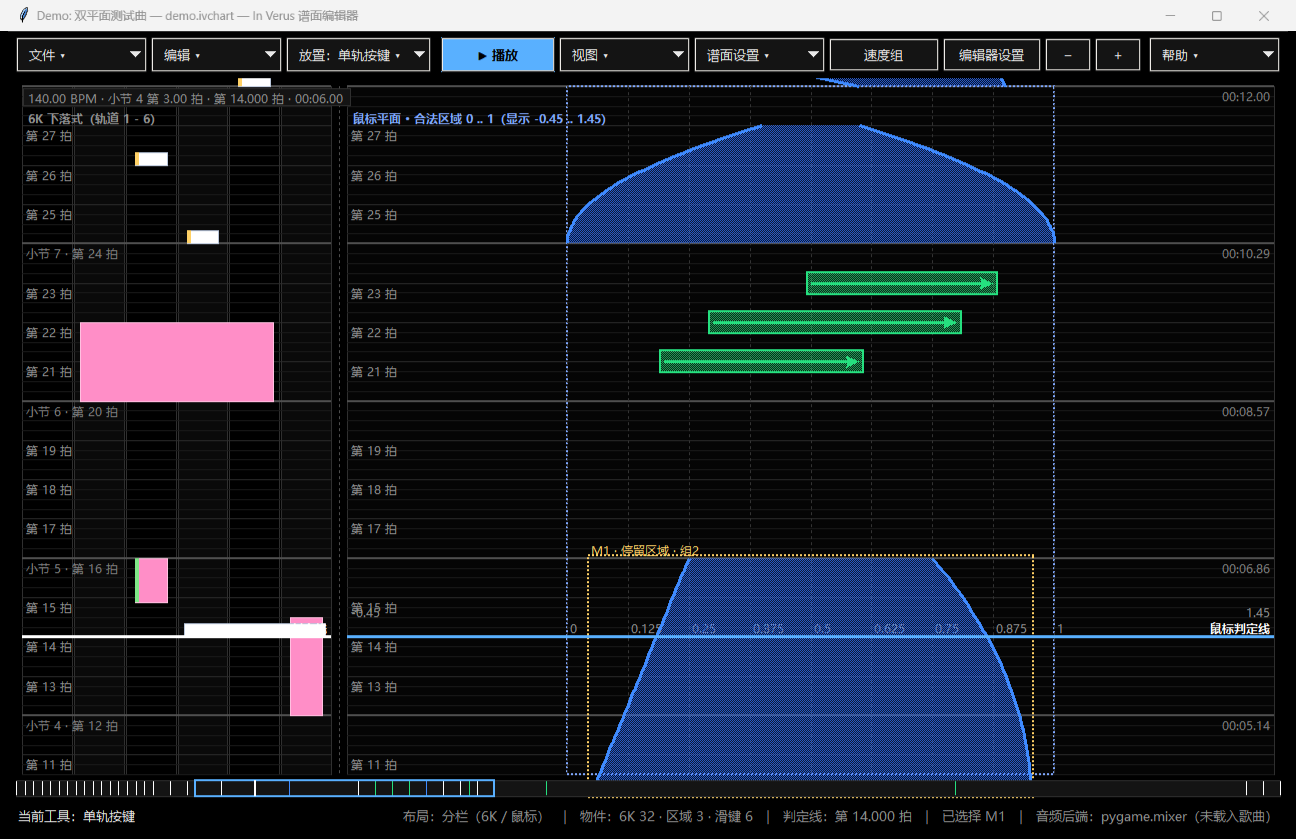
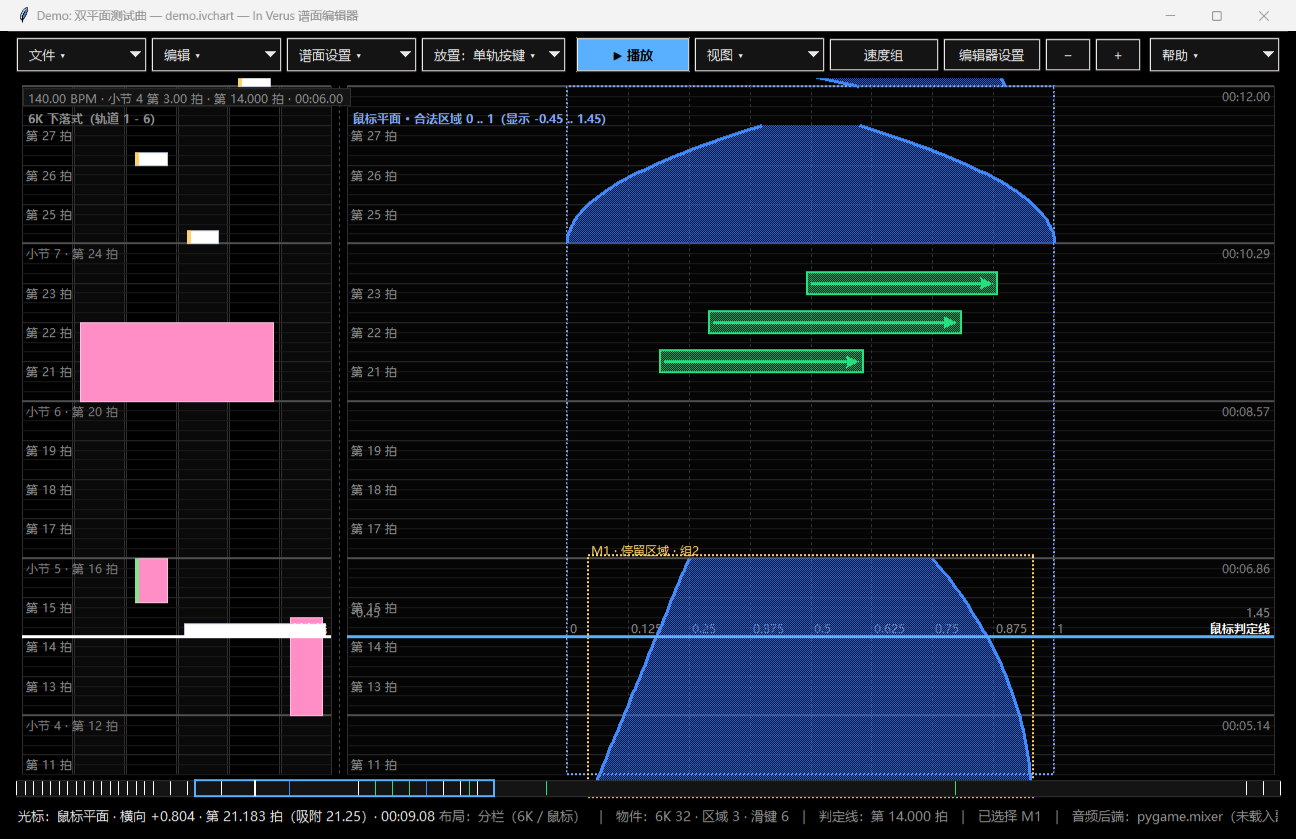
feat(editor): 新增多轨长按工具；谱面设置菜单移到编辑与放置之间
- 新工具 TOOL_LANE_HOLD_MULTI（数字键 5）：起点点击定轨道与时间，第二次点击的横坐标定结束轨道、纵坐标定结束时间；结束早于起点自动补一格；起点/结束轨道自动排序

- 放置幽灵预览统一支持跨轨道长按（按轨道跨度自适应内缩）

- 工具栏分组顺序：文件 / 编辑 / 谱面设置 / 放置 / 视图 / 速度组 / 编辑器设置 / 帮助

- 帮助文档、SPEC/USER_GUIDE/VERIFICATION/CHANGELOG 同步；测试 108 项全部通过

Changed region(s): [[0.0, 0.9607, 0.9877, 0.9917], [0.216, 0.031, 0.5864, 0.093]]

diff --git a/src/rhythm_editor/ui/interactions.py b/src/rhythm_editor/ui/interactions.py
@@ -93,7 +93,8 @@ class ToolController:
         layout = self.view.layout
         if y >= layout.play_bottom:
             hold_pending = (
-                self.tool == config.TOOL_LANE_HOLD and self._stage == 1
+                self.tool in (config.TOOL_LANE_HOLD, config.TOOL_LANE_HOLD_MULTI)
+                and self._stage == 1
             )
             if hold_pending and not self.paste_mode:
                 self._place_lane_hold(x, y)
@@ -111,6 +112,8 @@ class ToolController:
         elif tool == config.TOOL_LANE_MULTI:
             self._place_lane_multi(x, y)
         elif tool == config.TOOL_LANE_HOLD:
+            self._place_lane_hold(x, y)
+        elif tool == config.TOOL_LANE_HOLD_MULTI:
             self._place_lane_hold(x, y)
         elif tool == config.TOOL_MOUSE_REGION:
             self._place_region(x, y)
@@ -230,6 +233,7 @@ class ToolController:
         self.cancel_pending()
 
     def _place_lane_hold(self, x: float, y: float) -> None:
+        multi = self.tool == config.TOOL_LANE_HOLD_MULTI
         if self._stage == 0:
             if not self._in_play(x, y):
                 self.status("请在游玩区域内点击长按起点")
@@ -241,7 +245,11 @@ class ToolController:
             self._stage = 1
             self._first_lane = lane
             self._first_beat = self.view.snap_beat(self.view.y_to_beat(y))
-            hint = "长按：请点击结束时刻（可滚动/缩放，任意位置点击均可，Esc 取消）"
+            hint = (
+                "多轨长按：请点击结束轨道与结束时刻（Esc 取消）"
+                if multi
+                else "长按：请点击结束时刻（可滚动/缩放，任意位置点击均可，Esc 取消）"
+            )
             self._set_hint(hint)
             self.status(hint)
             return
@@ -250,10 +258,25 @@ class ToolController:
         start = self._first_beat or 0.0
         if end <= start:
             end = start + self.view.grid_step()
-        lane = self._first_lane if self._first_lane is not None else 0
-        note = LaneNote(self.document.chart.new_note_id("L"), lane, lane, start, end)
-        self.document.add_note(note, "放置长按")
-        self.status(f"已放置长按 {note.id}：轨道 {lane + 1}，第 {start:g} → {end:g} 拍")
+        start_lane = self._first_lane if self._first_lane is not None else 0
+        end_lane = start_lane
+        if multi:
+            # 多轨长按：第二次点击的横坐标决定结束轨道
+            lane = self._lane_at(x)
+            if lane is not None:
+                end_lane = lane
+        note = LaneNote(
+            self.document.chart.new_note_id("L"),
+            min(start_lane, end_lane),
+            max(start_lane, end_lane),
+            start,
+            end,
+        )
+        self.document.add_note(note, "放置多轨长按" if multi else "放置长按")
+        self.status(
+            f"已放置{'多轨长按' if multi else '长按'} {note.id}："
+            f"轨道 {note.lane_start + 1}-{note.lane_end + 1}，第 {start:g} → {end:g} 拍"
+        )
         self.cancel_pending()
 
     def _place_region(self, x: float, y: float) -> None:
@@ -383,7 +406,8 @@ class ToolController:
                 pending.beat_start = self._first_beat
                 pending.beat_end = self._first_beat
                 pending.lane_end = lane if lane is not None else pending.lane_start
-        elif tool == config.TOOL_LANE_HOLD:
+        elif tool in (config.TOOL_LANE_HOLD, config.TOOL_LANE_HOLD_MULTI):
+            multi = tool == config.TOOL_LANE_HOLD_MULTI
             if self._stage == 0:
                 if lane is None:
                     pending.tool = ""
@@ -393,12 +417,12 @@ class ToolController:
                 pending.lane_end = lane
                 pending.beat_start = beat
                 pending.beat_end = beat
-                pending.hint = "长按：点击起点"
+                pending.hint = "多轨长按：点击起点" if multi else "长按：点击起点"
             else:
                 pending.lane_start = self._first_lane
-                pending.lane_end = self._first_lane
                 pending.beat_start = self._first_beat
                 pending.beat_end = beat
+                pending.lane_end = lane if (multi and lane is not None) else self._first_lane
         elif tool == config.TOOL_MOUSE_REGION:
             if not in_play:
                 pending.tool = ""

diff --git a/src/rhythm_editor/ui/dialogs.py b/src/rhythm_editor/ui/dialogs.py
@@ -843,15 +843,17 @@ GUIDE_TEXT = """【界面】
 （同一个时间刻度）与同一套时间网格，所以滚动 / 缩放永远同步。
 按 Tab 进入演示模式后，两个平面叠加显示（鼠标平面压在中四条轨道上）并且不可编辑。
 
-【放置工具】（顶栏「放置 ▾」菜单，或按数字键 1-6 切换）
+【放置工具】（顶栏「放置 ▾」菜单，或按数字键 1-7 切换）
 1 单轨按键：点击 6K 区域 -> 在对应轨道放置按键，时间自动吸附网格。
 2 多轨按键：先点击一条轨道，再点击另一条轨道 -> 生成跨越这两条轨道的多轨按键；
    时间以第一次点击为准。
 3 长按：先点击起点（轨道 + 时间），再点击结束时刻。选择结束时刻时可以滚动/缩放，
    也可以在任意位置点击（包括鼠标游玩区域），结束时间吸附到网格。
-4 鼠标停留区域：点击设定开始时间，再点击设定结束时间，然后在弹出的对话框里设置
+4 多轨长按：先点击起点（轨道 + 时间），再点击终点 —— 第二次点击的横坐标决定结束
+   轨道、纵坐标决定结束时间，一次就能拉出跨越多条轨道的长按。
+5 鼠标停留区域：点击设定开始时间，再点击设定结束时间，然后在弹出的对话框里设置
    左/右边界的首尾位置与线型（线性 / 缓入 / 缓出）。
-5 左右滑键：先点击设定时间与横向位置，再点击第二次决定滑动方向；
+6 左右滑键：先点击设定时间与横向位置，再点击第二次决定滑动方向；
    开启横向辅助网格时会吸附到网格线上。
 Esc 取消当前放置流程；切换工具同样会放弃未完成的操作。放置过程中会显示幽灵预览。
 
@@ -885,8 +887,9 @@ SHORTCUTS_TEXT = """【工具切换】
 2  单轨按键
 3  多轨按键
 4  长按
-5  鼠标停留区域
-6  左右滑键
+5  多轨长按
+6  鼠标停留区域
+7  左右滑键
 Esc  取消当前放置流程（演示模式下为退出演示）
 Tab  进入 / 退出演示模式
 

diff --git a/tests/test_editor_smoke.py b/tests/test_editor_smoke.py
@@ -317,6 +317,26 @@ class EditorSmokeTest(unittest.TestCase):
         self.assertAlmostEqual(notes[0].beat_end, 6.0)
         self.assertEqual(notes[0].lane_start, 0)
 
+    def test_place_multi_lane_hold(self) -> None:
+        """多轨长按：起点定轨道与时间，第二次点击的横坐标定结束轨道、纵坐标定结束时间。"""
+        self.controller.set_tool(config.TOOL_LANE_HOLD_MULTI)
+        self.click(self.view.layout.lane_center(1), self.y_of_beat(4.0))
+        self.assertTrue(self.state.pending.hint)
+        self.click(self.view.layout.lane_center(4), self.y_of_beat(6.5))
+        notes = self.document.chart.lane_notes
+        self.assertEqual(len(notes), 1)
+        note = notes[0]
+        self.assertEqual((note.lane_start, note.lane_end), (1, 4))
+        self.assertAlmostEqual(note.beat_start, 4.0)
+        self.assertAlmostEqual(note.beat_end, 6.5)
+        self.assertTrue(note.is_hold)
+        self.assertTrue(note.is_multi)
+        # 结束时间早于起点时自动补一格
+        self.click(self.view.layout.lane_center(3), self.y_of_beat(4.0))
+        self.click(self.view.layout.lane_center(3), self.y_of_beat(3.0))
+        fixed = self.document.chart.lane_notes[1]
+        self.assertAlmostEqual(fixed.beat_end - fixed.beat_start, self.view.grid_step())
+
     def test_place_region_uses_dialog_result(self) -> None:
         self.region_result = {
             "beat_start": 4.0,

diff --git a/src/rhythm_editor/ui/renderer.py b/src/rhythm_editor/ui/renderer.py
@@ -732,8 +732,14 @@ class Renderer:
                 dash=(4, 3),
                 stipple=theme.stipple_soft,
             )
-        elif pending.tool == config.TOOL_LANE_HOLD and pending.lane_start is not None and pending.beat_start is not None:
-            x0, x1 = layout.lane_span(pending.lane_start, pending.lane_start)
+        elif (
+            pending.tool in (config.TOOL_LANE_HOLD, config.TOOL_LANE_HOLD_MULTI)
+            and pending.lane_start is not None
+            and pending.beat_start is not None
+        ):
+            lane_end = pending.lane_end if pending.lane_end is not None else pending.lane_start
+            x0, x1 = layout.lane_span(pending.lane_start, lane_end)
+            pad = 9 if x1 - x0 < 2 else 6
             end = pending.beat_end if pending.beat_end is not None else pending.beat_start
             y_head = view.note_y(pending.beat_start)
             y_tail = view.note_y(end)
@@ -742,9 +748,9 @@ class Renderer:
                 bottom = top + TAP_MIN_PX
             self.scene.rect(
                 "pending:hold",
-                x0 + 9,
+                x0 + pad,
                 top,
-                x1 - 9,
+                x1 - pad,
                 bottom,
                 fill=theme.pending,
                 outline=theme.pending,

diff --git a/tests/test_app_flow.py b/tests/test_app_flow.py
@@ -100,7 +100,12 @@ class AppFlowTest(unittest.TestCase):
         toolbar = self.app.toolbar
         labels = set(toolbar._group_buttons)
         # 面板已拆成「谱面设置 / 速度组 / 编辑器设置」；帮助保留
-        self.assertTrue({"文件", "编辑", "放置", "视图", "谱面设置", "帮助"} <= labels)
+        self.assertTrue({"文件", "编辑", "谱面设置", "放置", "视图", "帮助"} <= labels)
+        # 谱面设置要排在 编辑 与 放置 之间
+        order = [group.label for group in toolbar._groups]
+        self.assertEqual(
+            order, ["文件", "编辑", "谱面设置", "放置", "视图", "速度组", "编辑器设置", "帮助"]
+        )
         self.assertFalse(hasattr(toolbar, "menubar"), "不再保留系统菜单栏")
         self.assertEqual(str(self.app.root.cget("menu")), "")
         # 顶栏只保留分组 + 播放；演示模式、缩放文字都移到二级菜单 / 去掉了

diff --git a/src/rhythm_editor/ui/toolbar.py b/src/rhythm_editor/ui/toolbar.py
@@ -4,7 +4,7 @@
 
 * 文件   —— 新建 / 打开 / 保存 / 另存为
 * 编辑   —— 撤销 / 重做 / 复制 / 粘贴 / 镜像 / 编辑物件 / 删除 / 全选
-* 放置   —— 选择、单轨、多轨、长按、停留区域、左右滑键（二级菜单里可勾选）
+* 放置   —— 选择、单轨、多轨、长按、多轨长按、停留区域、左右滑键（二级菜单里可勾选）
 * 视图   —— 缩放、时间网格细分、横向辅助网格、跳转、全屏
 * 谱面设置 —— 元数据、BPM 与偏移
 * 速度组 / 编辑器设置 —— 单击直接打开对应面板
@@ -183,9 +183,9 @@ class Toolbar(ttk.Frame):
         return [
             file_group,
             edit_group,
+            chart_group,
             place_group,
             view_group,
-            chart_group,
             speed_group,
             editor_group,
             help_group,

diff --git a/src/rhythm_editor/config.py b/src/rhythm_editor/config.py
@@ -75,6 +75,7 @@ TOOL_SELECT = "select"
 TOOL_LANE_TAP = "lane_tap"
 TOOL_LANE_MULTI = "lane_multi"
 TOOL_LANE_HOLD = "lane_hold"
+TOOL_LANE_HOLD_MULTI = "lane_hold_multi"
 TOOL_MOUSE_REGION = "mouse_region"
 TOOL_MOUSE_SLIDE = "mouse_slide"
 
@@ -83,6 +84,7 @@ TOOL_LABELS = {
     TOOL_LANE_TAP: "单轨按键",
     TOOL_LANE_MULTI: "多轨按键",
     TOOL_LANE_HOLD: "长按",
+    TOOL_LANE_HOLD_MULTI: "多轨长按",
     TOOL_MOUSE_REGION: "鼠标停留区域",
     TOOL_MOUSE_SLIDE: "左右滑键",
 }
@@ -92,6 +94,7 @@ TOOL_ORDER = (
     TOOL_LANE_TAP,
     TOOL_LANE_MULTI,
     TOOL_LANE_HOLD,
+    TOOL_LANE_HOLD_MULTI,
     TOOL_MOUSE_REGION,
     TOOL_MOUSE_SLIDE,
 )

diff --git a/docs/VERIFICATION.md b/docs/VERIFICATION.md
@@ -113,7 +113,7 @@ python tools/check_audio.py
 
 | 项目 | 命令 | 结果 |
 | --- | --- | --- |
-| 单元测试（含 Tk 画布冒烟测试与应用级测试） | `python -m unittest discover -s tests -t .` | Ran 107 tests — **OK** |
+| 单元测试（含 Tk 画布冒烟测试与应用级测试） | `python -m unittest discover -s tests -t .` | Ran 108 tests — **OK** |
 | 需求验收清单 | `python tools/acceptance.py` | 13 项全部 `[OK ]`，结论：全部通过 |
 | 音频后端 | `python tools/check_audio.py` | 9 项全部 `[OK ]`（pygame.mixer 真实播放，延迟补偿正确） |
 | 示例谱面生成 | `python run_editor.py --make-demo` | 生成 `charts/demo/demo.ivchart`（6K 32 / 区域 3 / 滑键 6 / 4 个速度组） |
@@ -155,6 +155,8 @@ python tools/check_audio.py
 | `tests/test_editor_smoke.py::test_grid_labels_show_bar_and_beat_numbers` | 小节线标注带绝对拍号、拍线旁有拍号（方便填数据） |
 | `tests/test_editor_smoke.py::test_region_draws_only_left_and_right_edges` | 蓝色停留区域只画左右边界线（无上下封口） |
 | `tests/test_editor_smoke.py::test_region_pending_preview_has_only_side_edges` | 放置预览同样只有左右边界线 |
+| `tests/test_editor_smoke.py::test_place_multi_lane_hold` | 多轨长按：第二次点击的横坐标定结束轨道、纵坐标定结束时间；结束早于起点自动补一格 |
+| `tests/test_app_flow.py::test_toolbar_groups_without_menubar` | 分组顺序为 文件/编辑/谱面设置/放置/视图/速度组/编辑器设置/帮助 |
 | `tests/test_app_flow.py::test_fullscreen_toggle` | 全屏开关切换 |
 | `tests/test_app_flow.py::test_maximized_by_default` | 默认最大化（`-fullscreen` 属性为 0），不是无边框全屏 |
 | `tests/test_app_flow.py::test_toggle_maximize_and_fullscreen` | 最大化 / 还原 / 全屏互斥切换 |

diff --git a/docs/SPEC.md b/docs/SPEC.md
@@ -123,6 +123,15 @@
 * 结束时刻**接收任意位置的点击**，包括鼠标游玩区域内部的点击；时间吸附网格。
 * 切换工具或按 `Esc` 视为放弃本次操作。
 
+### 2.5.1 放置多轨长按
+
+* 第一次点击：起点轨道 + 起点时间（吸附网格）。
+* 第二次点击：**横坐标决定结束轨道**、**纵坐标决定结束时间**（都吸附），
+  于是可以一次拉出“横跨相邻多条轨道的长按”。
+* 若第二次点击的结束时间不晚于起点，会自动补一个网格格，保证是一条有效长按。
+* 起点轨道与结束轨道会自动排序，保证 `lane_start ≤ lane_end`；
+  之后可以用「编辑物件」继续调整轨道与起止拍。
+
 ### 2.6 放置鼠标停留区域
 
 * 第一次点击设定开始时间，第二次点击设定结束时间（都吸附网格）。

diff --git a/docs/USER_GUIDE.md b/docs/USER_GUIDE.md
@@ -33,6 +33,7 @@ python run_editor.py charts/demo/demo.ivchart --fullscreen  # 无边框全屏
   * 文件：新建 / 打开 / 保存 / 另存为 / 退出
   * 编辑：撤销 / 重做 / 复制 / 粘贴 / 镜像 / 编辑物件 / 删除 / 全选
   * 放置：选择、单轨、多轨、长按、停留区域、左右滑键（当前工具会显示在按钮上）
+    （含「多轨长按」：起点定轨道与时间，第二次点击的横坐标定结束轨道、纵坐标定结束时间）
   * 视图：缩放、时间网格细分、横向辅助网格、跳转、播放、演示模式（叠加 · 只读）、最大化、全屏
   * 谱面设置：元数据设置 / BPM 与偏移
   * 速度组、编辑器设置：单击直接打开对应面板

diff --git a/CHANGELOG.md b/CHANGELOG.md
@@ -23,6 +23,9 @@
   方便照着画面填写以“拍”为单位的数据。
 * **蓝色停留区域只画左右边界线**：去掉上下封口横线（放置预览同样如此），
   区域的起止由两条边界曲线的端点体现。
+* **新增「多轨长按」工具**：起点点击定轨道与时间，第二次点击的横坐标定结束轨道、
+  纵坐标定结束时间，一次拉出跨轨道的长按（数字键 `5`；放置菜单里可勾选）。
+* **「谱面设置」菜单移动到「编辑」与「放置」之间**。
 
 ## 0.2.0 — 界面重构
 
